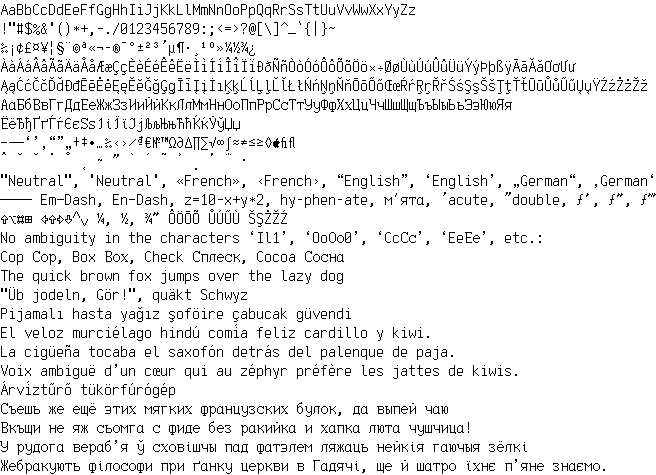
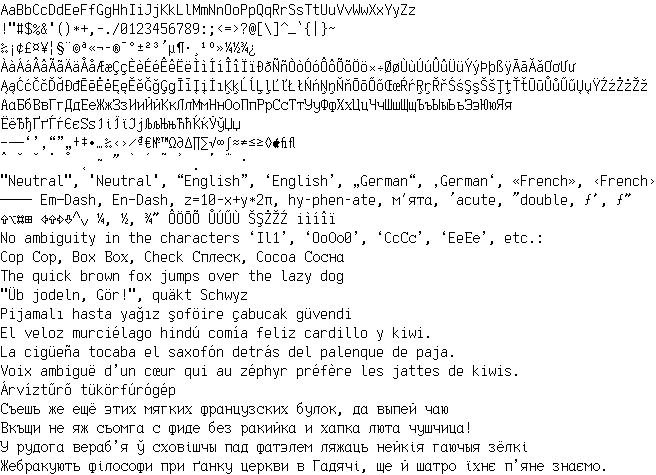
New codepoints

diff --git a/export.js b/export.js
@@ -111,9 +111,9 @@ writeFileSync('./Example.png', getImage([
     'ЁёЂђҐґЃѓЄєЅѕІіЇїЈјЉљЊњЋћЌќЎўЏџӘәҖҗҢңӨөҮүҺһ',
     '–—―‘’‚“”„†‡•…‰‹›⁄₫€№™Ω∂∆∏∑√∞∫≈≠≤≥◊\uF8FFﬁﬂ',
     'ˆ ˇ ˘ ˙ ˚ ˛ ˜ ˝ ̀ ́ ̃ ̉ ̣ ΄ ΅ ·',
-    '"Neutral", \'Neutral\', «French», ‹French›, “English”, ‘English’, „German“, ‚German‘',
-    '―――― Em—Dash, En–Dash, z=10-x+y*2, hy‐phen‐ate, мʼята, ´acute, ˝double, ƒ′, ƒ″, ƒ‴',
-    '⇧⌥⌘⊞ ⇦⇧⇨⇩⌃⌄ ¼, ½, ¾″ ÔÖŌÕ ŮÚŰÙ ŠŞŻŽŹ',
+    '"Neutral", \'Neutral\', “English”, ‘English’, „German“, ‚German‘, «French», ‹French›',
+    '―――― Em—Dash, En–Dash, z=10-x+y*2π, hy‐phen‐ate, мʼята, ´acute, ˝double, ƒ′, ƒ″',
+    '⇧⌥⌘⊞ ⇦⇧⇨⇩⌃⌄ ¼, ½, ¾″ ÔÖŌÕ ŮÚŰÙ ŠŞŻŽŹ iìíîï',
     'No ambiguity in the characters ‘Il1’, ‘OoОо0’, ‘CcСс’, ‘EeЕе’, etc.:',
     'Cop Сор, Box Вох, Check Сплеск, Cocoa Сосна',
     'The quick brown fox jumps over the lazy dog',
